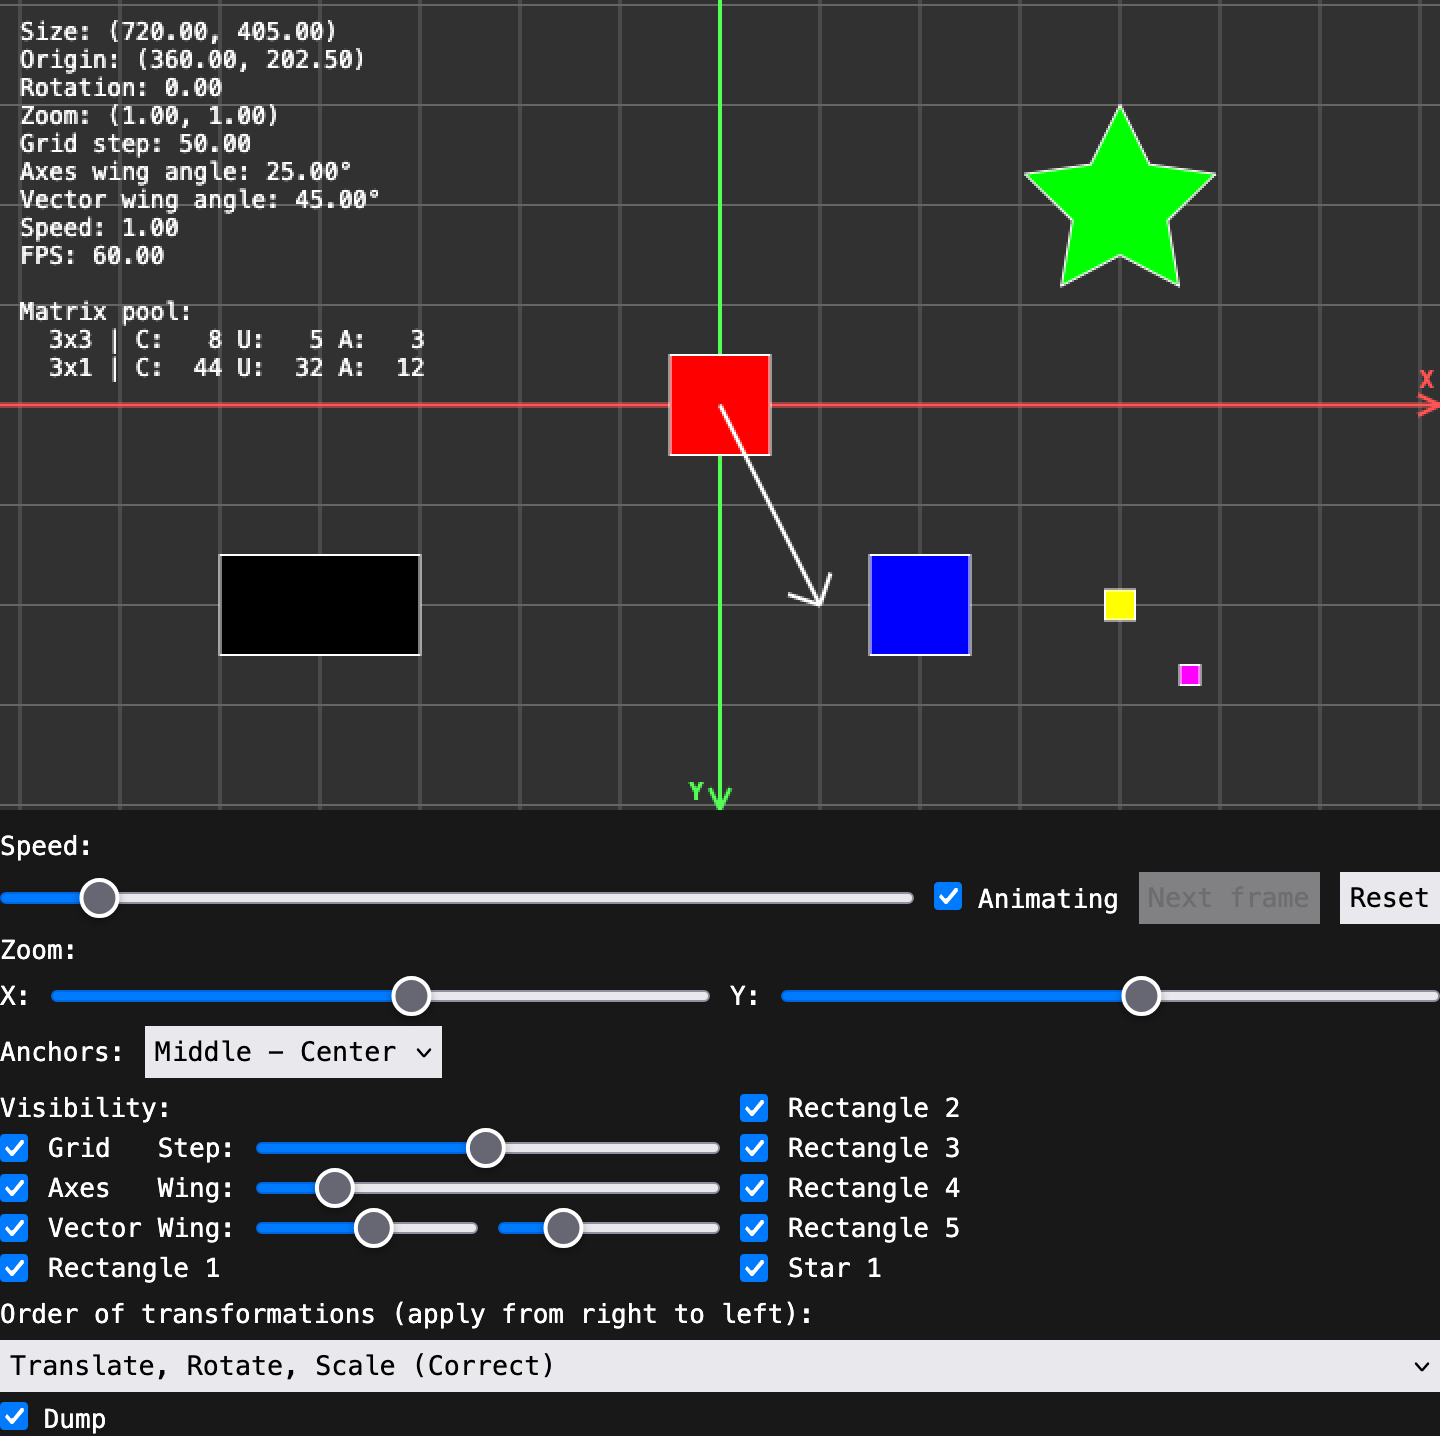
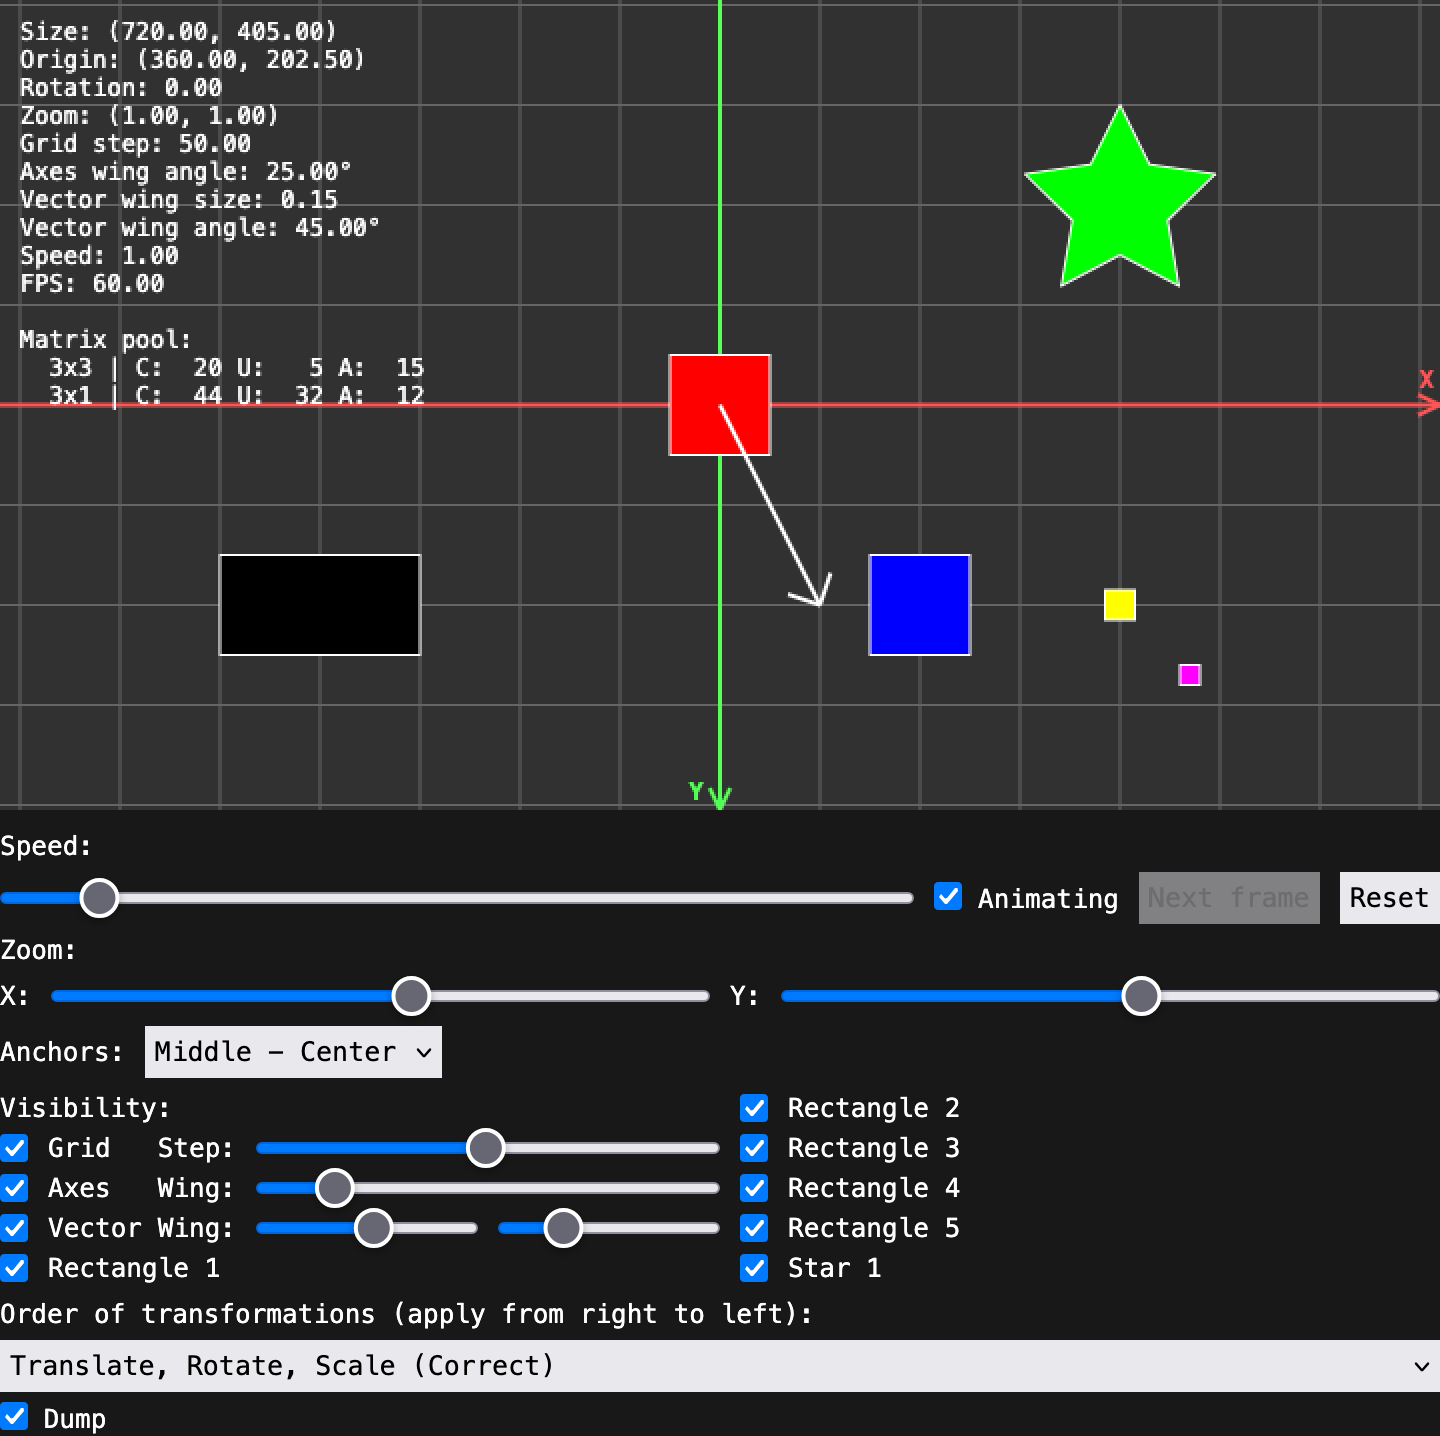
Add vector wing size log

Changed region(s): [[0.0, 0.1226, 0.25, 0.2758], [0.1875, 0.2145, 0.25, 0.2758], [0.2812, 0.2451, 0.3125, 0.2758]]

diff --git a/js/lib/context.js b/js/lib/context.js
@@ -1065,7 +1065,7 @@ class Context {
     this.#ctx.stroke();
   }
 
-  drawInfo(fps, speed, gridStep, axesWing, vectorWing) {
+  drawInfo(fps, speed, gridStep, axesWingAngle, vectorWingSize, vectorWingAngle) {
     this.#ctx.font = `${FONT_SIZE}px monospace`;
     this.#ctx.fillStyle = '#ffffff';
 
@@ -1075,8 +1075,9 @@ class Context {
       `Rotation: ${this.#rotation.toFixed(2)}`,
       `Zoom: (${this.#zoom.x.toFixed(2)}, ${this.#zoom.y.toFixed(2)})`,
       isValidNumber(gridStep) === true ? `Grid step: ${gridStep.toFixed(2)}` : null,
-      isValidNumber(axesWing) === true ? `Axes wing angle: ${axesWing.toFixed(2)}°` : null,
-      isValidNumber(vectorWing) === true ? `Vector wing angle: ${vectorWing.toFixed(2)}°` : null,
+      isValidNumber(axesWingAngle) === true ? `Axes wing angle: ${axesWingAngle.toFixed(2)}°` : null,
+      isValidNumber(vectorWingSize) === true ? `Vector wing size: ${vectorWingSize.toFixed(2)}` : null,
+      isValidNumber(vectorWingAngle) === true ? `Vector wing angle: ${vectorWingAngle.toFixed(2)}°` : null,
       `Speed: ${speed.toFixed(2)}`,
       `FPS: ${fps.toFixed(2)}`,
       '',

diff --git a/js/main.js b/js/main.js
@@ -139,6 +139,7 @@ function drawFrame() {
       speedMultiplier,
       gridCheckbox.checked === true ? Number(gridStep.value) : null,
       axesCheckbox.checked === true ? Number(axesWing.value) : null,
+      vectorCheckbox.checked === true ? Number(vectorWingSize.value) : null,
       vectorCheckbox.checked === true ? Number(vectorWingAngle.value) : null
     );
   ctx.drawEnd();
